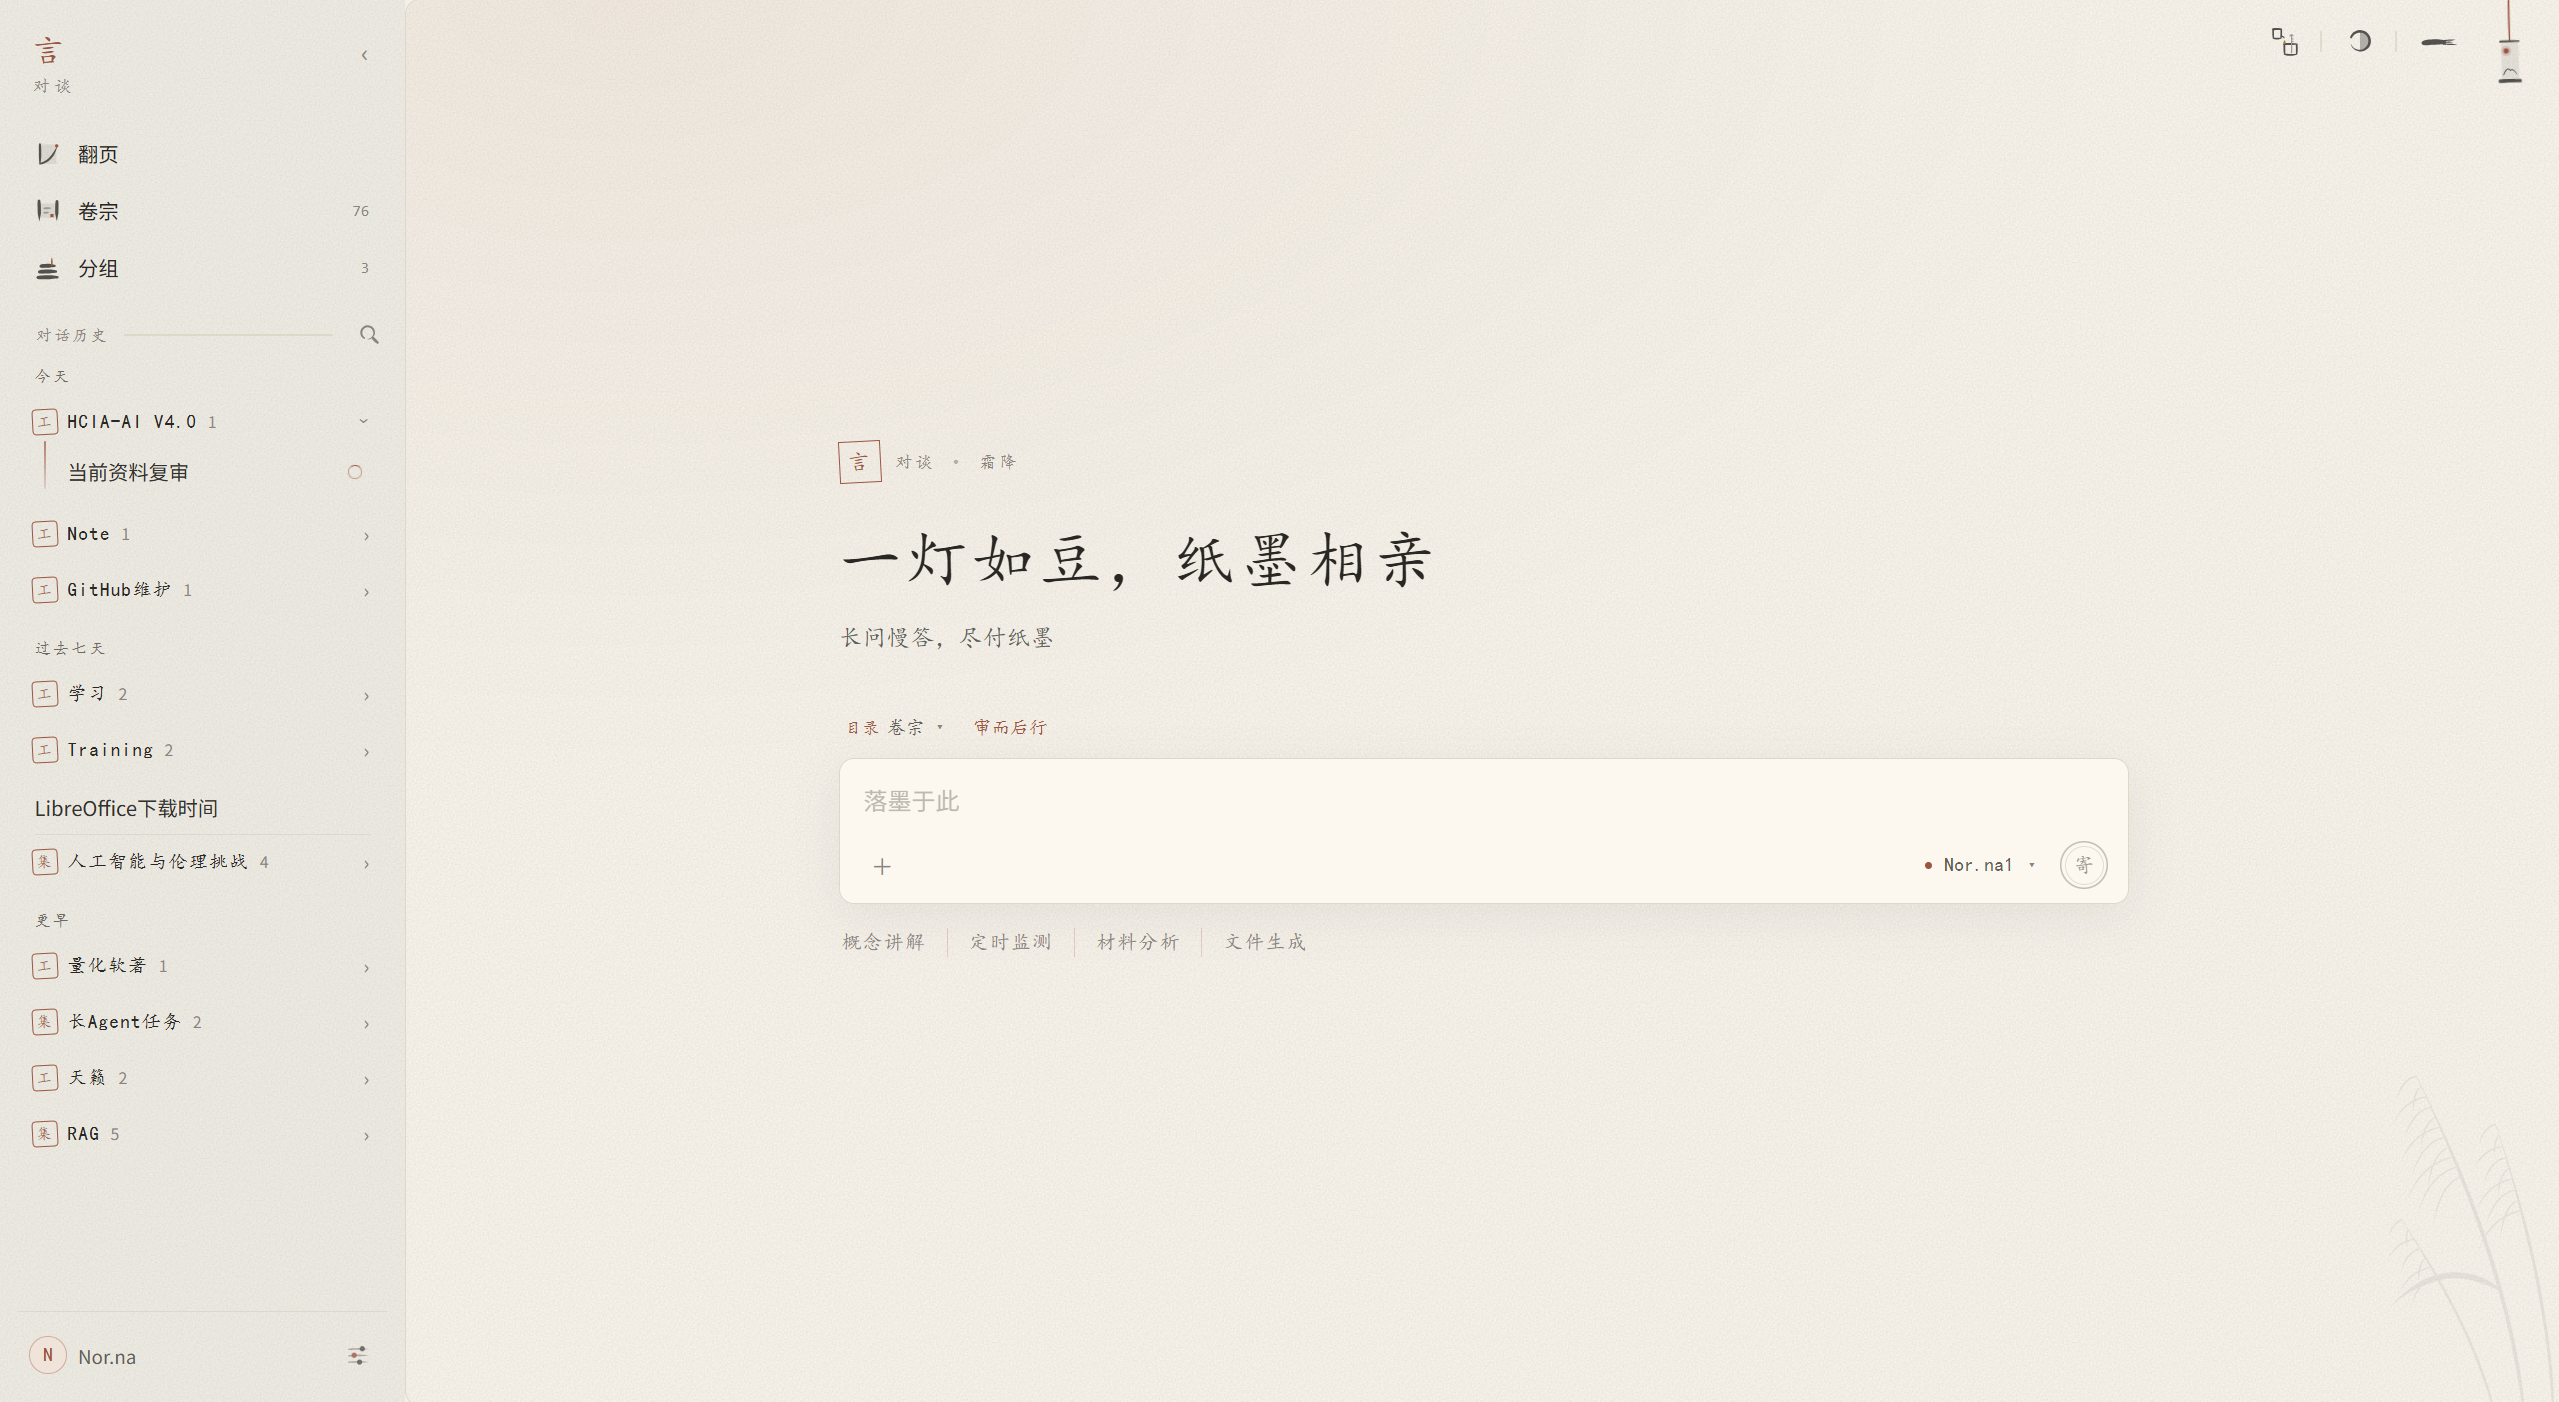
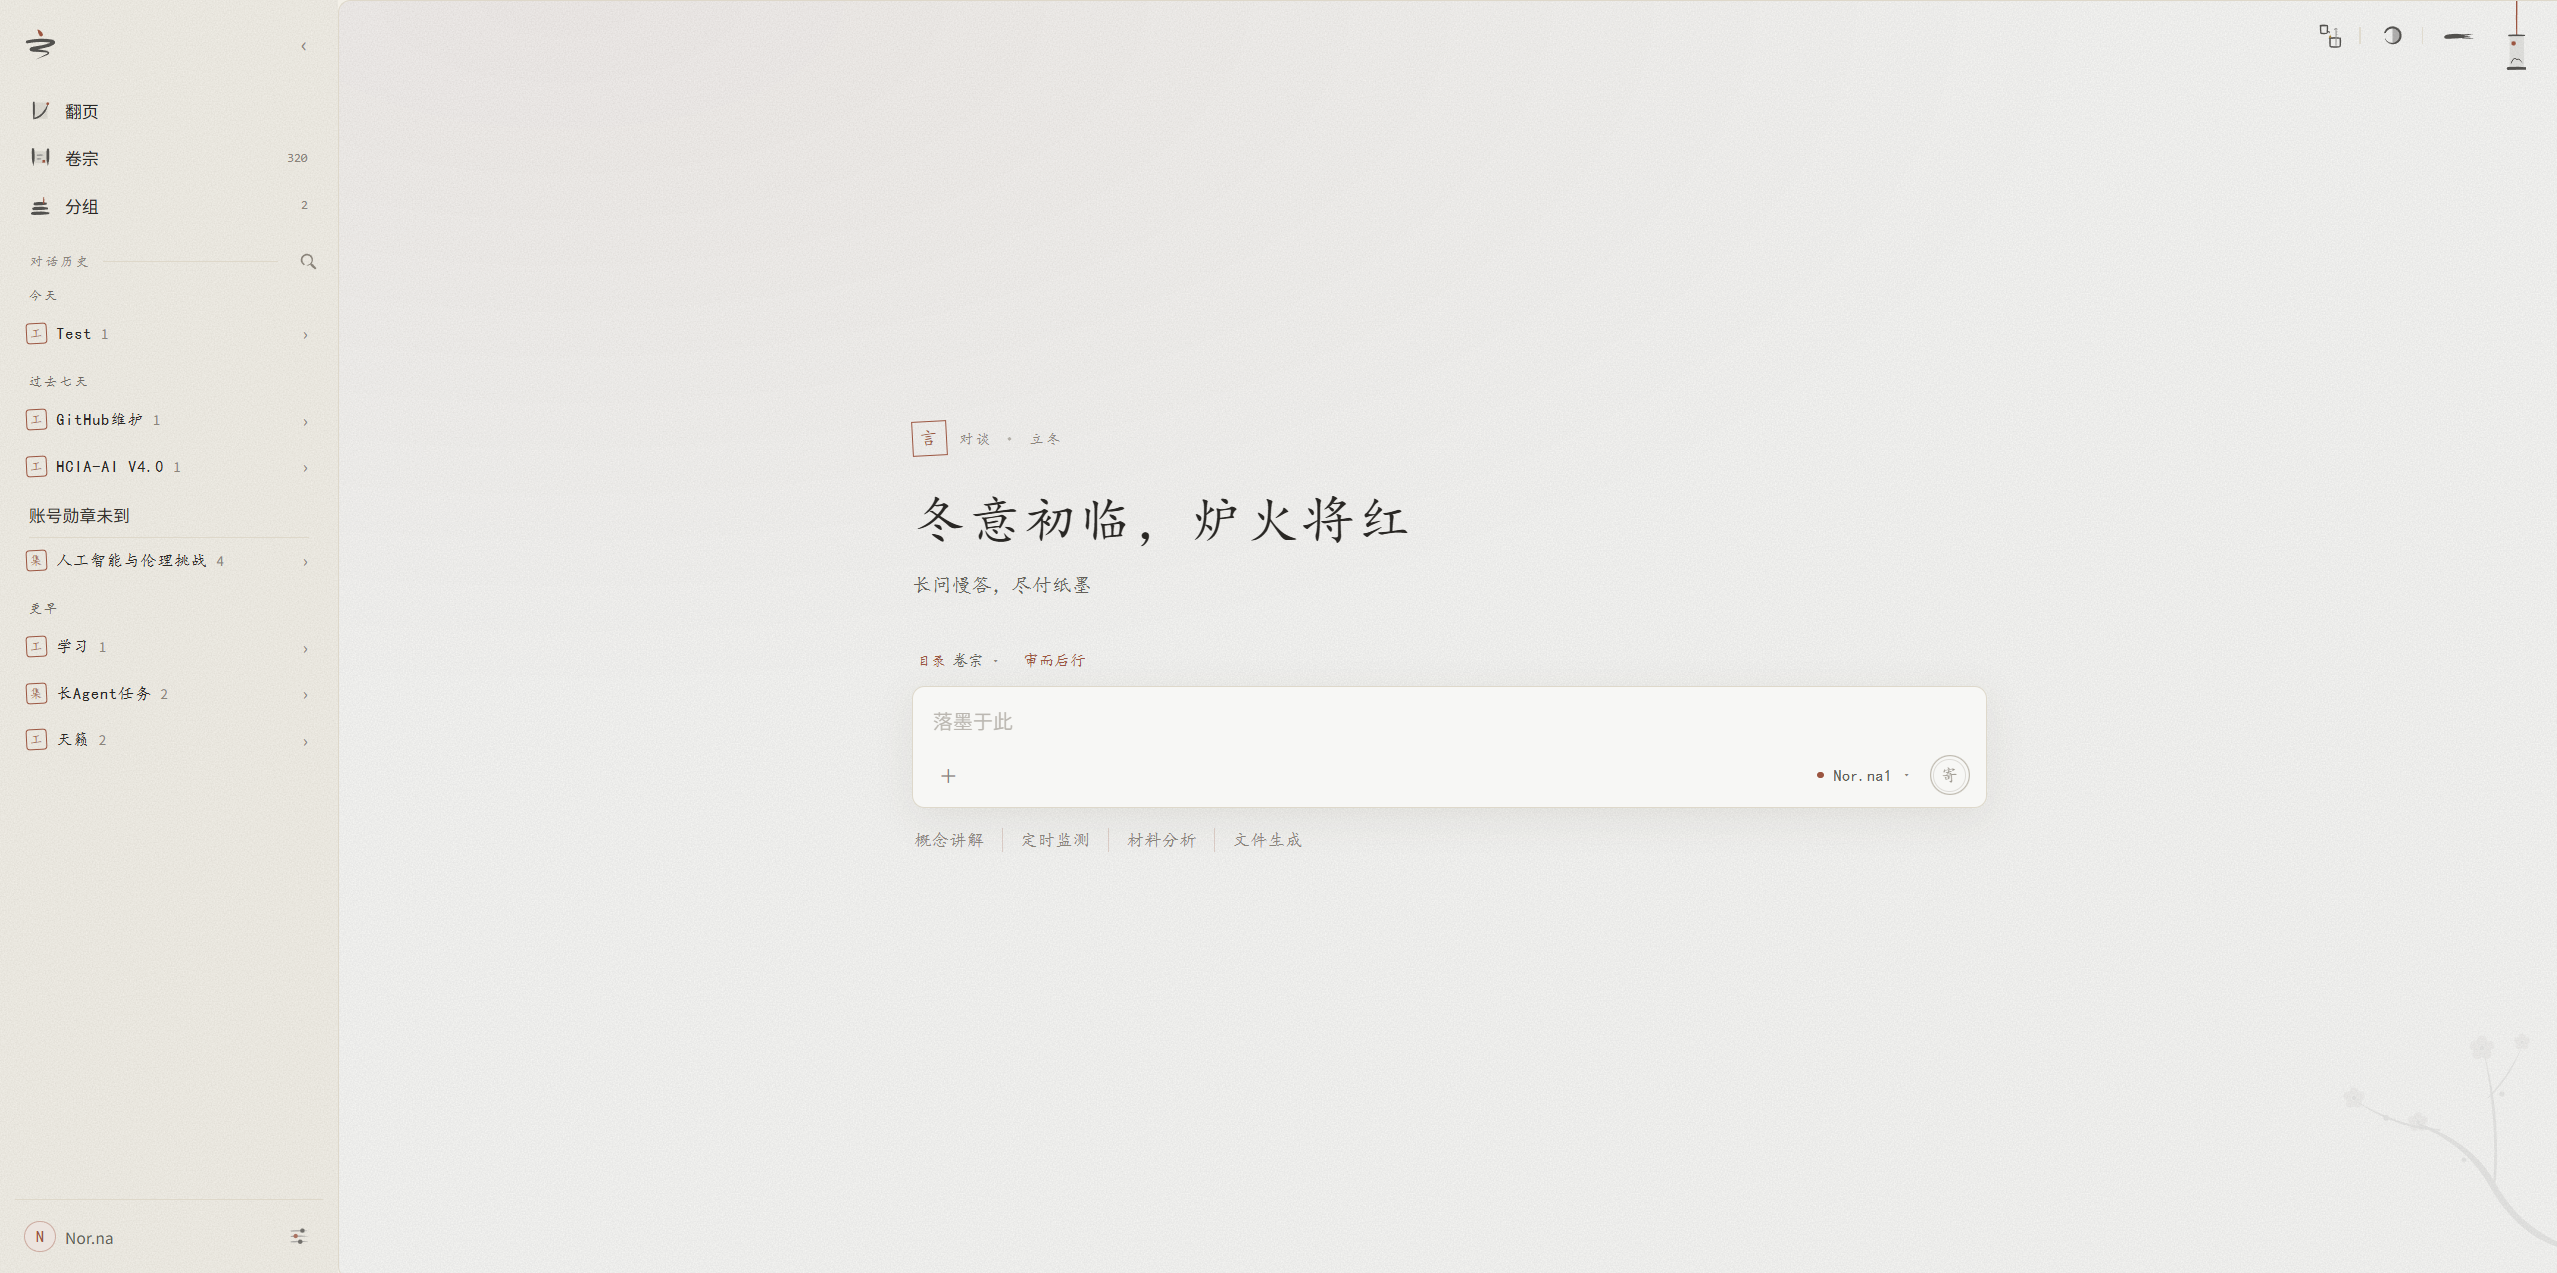
记忆：记多少不设上限，整理不再压字数
三千字的预算是硬数字，同账本当初的两千字一样，只能逼整理删有用的。遗忘只由内容定：被新说法推翻的改掉或删去、相关的并进已有那条，人也可在设置里删；不按时长、不按字数。整理那一问不再报总字数，设置页只显示现有多少字。记忆用例跟上一答落定即整理：人在这段也整理、下一答只交新近的、离开不再整理。

diff --git a/src/11-memory.js b/src/11-memory.js
@@ -1,14 +1,13 @@
-// 言 · 录（记忆）：条目的增删、带进对话、离开一段后的整理与设置页；模型用的工具在 15-tools/40-memory.js
+// 言 · 录（记忆）：条目的增删、带进对话、一答落定后的整理与设置页；模型用的工具在 15-tools/40-memory.js
 // 本文件是 support.js 的一段，由桥接按文件名顺序拼进同一个闭包；无需模块系统
 // ── 录（记忆）──
 // 一条条关于用户的话，跨对话都带着。每条归在一个分类下（言的开发、偏好……），分类不另存，就是各条上的名字：
 // 同名即同类，没有条目的分类自然消失。
 // 照各家的朴素做法（ChatGPT 的存下的记忆、Claude 的 userMemories、Claude Code 的 MEMORY.md）：记忆整份放进系统提示，
 // 每段对话头一问时定格；不再要模型自己去翻——原先只报分类、内容要 recall 才看得到，模型不知道里头有什么，多半就不翻。
-// 能整份带上是因为短：总长有个预算（MEMORY_BUDGET），由专司「记忆」在离开一段对话后整理——从这段的问答里补记、合并、删去推翻的，
-// 压回预算之内。主模型仍可当场 remember，只是不靠它：答题中途停下来记是分心，记不记全看它那一刻想没想起来
-const MEMORY_BUDGET = 3000,
-  MEMORY_UNSORTED = "未分类",
+// 记多少不设上限（同账本：硬数字只会逼它删有用的），由专司「记忆」在每一答落定后整理——从这段的问答里补记、合并、改掉推翻的。
+// 遗忘不按时长、不按字数：被新说法推翻的、用户要忘的才删；人也可在设置里删。主模型仍可当场 remember，只是不靠它：答题中途停下来记是分心，记不记全看它那一刻想没想起来
+const MEMORY_UNSORTED = "未分类",
   // 整理一回交多少字的问答；用户的话、助手的答复各截到多长（助手的只作上下文）
   TIDY_CHUNK = 16000,
   TIDY_USER_CHARS = 4000,
@@ -19,7 +18,7 @@ let memoryCategoryOpen = null;
 let memoryItemOpen = "",
   memoryItemEditing = "";
 /**
- * 专司「记忆」配好了：每段对话开头带上记忆、给记与忘，离开一段后整理。预设没挑「记忆与旧谈」这一组的对话不带也不整理
+ * 专司「记忆」配好了：每段对话开头带上记忆、给记与忘，一答落定后整理。预设没挑「记忆与旧谈」这一组的对话不带也不整理
  * @param {Conversation} [conversation]
  */
 function memoryOn(conversation) {
@@ -203,13 +202,12 @@ async function askTidier(c, turns, day) {
     reply = await askDuty(
       "memory",
       prompt("memory.case", {
-        used: memoryChars(),
         items: items.length ? items.map(item => memoryLine(item, true)).join("\n") : prompt("memory.empty"),
         title: c.title || t("未命名"),
         day,
         turns
       }),
-      { systemPrompt: prompt("memory.system", { budget: MEMORY_BUDGET }), maxTokens: 8000, signal: AbortSignal.timeout(180000) }
+      { systemPrompt: prompt("memory.system"), maxTokens: 8000, signal: AbortSignal.timeout(180000) }
     );
   return parseMemoryOps(reply);
 }
@@ -297,7 +295,7 @@ function memorySettingsHtml() {
     open = categories.find(cat => cat.name === memoryCategoryOpen) || categories[0];
   memoryCategoryOpen = open?.name ?? null;
   return (
-    `<div class="settings-head">${brushIcon("memory", "settings-mark")}<h2>${t(`记忆`)}</h2><span class="settings-meta">${t`${store.memory.items.length} 条 · ${memoryChars()} / ${MEMORY_BUDGET} 字`}${categories.length ? t` · ${categories.length} 类` : ""}</span></div>` +
+    `<div class="settings-head">${brushIcon("memory", "settings-mark")}<h2>${t(`记忆`)}</h2><span class="settings-meta">${t`${store.memory.items.length} 条 · ${memoryChars()} 字`}${categories.length ? t` · ${categories.length} 类` : ""}</span></div>` +
     // 开关在专司里（带不带、谁来整理是一回事）；这一行只说眼下如何，「清空记忆」管的是全部，也放这一行，不挤在哪一类底下
     `<div class="setting-row"><div class="setting-copy"><strong>${on ? t("带进对话") : t("未带进对话")}</strong><small>${
       on ? t("每段对话开头带上，离开一段后由专司「记忆」在后台整理") : t("在专司里配好「记忆」后，才带上、才整理")

diff --git a/i18n/en.js b/i18n/en.js
@@ -406,7 +406,7 @@ var YAN_EN = {
   "分类名；与已有分类同名即并为一类": "Category name; using an existing name merges them",
   手记一条: "Add a memory",
   删去此类: "Delete category",
-  "{0} 条 · {1} / {2} 字": "{0} {0|entry|entries} · {1} / {2} characters",
+  "{0} 条 · {1} 字": "{0} {0|entry|entries} · {1} characters",
   " · {0} 类": " · {0} {0|category|categories}",
   带进对话: "Brought into chats",
   未带进对话: "Not brought into chats",
@@ -1942,8 +1942,8 @@ var YAN_EN = {
   "录是一份跨对话的记忆：你的偏好、身份与约定，此后不必重述。只存于本机。":
     "Memory carries across conversations: your preferences, who you are and what's been agreed, so you needn't repeat them. It's stored only on this machine.",
   带与记: "Bringing and remembering",
-  "专司里配好「记忆」，每段对话开头便带上整份记忆，模型不必去翻。每一答落定，专司「记忆」就在后台读这段新近的问答，补记、合并、删去推翻了的，压在三千字之内；改了几条，提示一句。模型也可当场记一条，行迹里写作「记入」。":
-    "Once Memory is set up under Duties, every chat starts with the whole memory included, so the model doesn't have to look anything up. Whenever an answer settles, the Memory duty reads the chat's recent exchanges in the background, adds what's new, merges and removes what's been overturned, and keeps the whole within 3,000 characters; a short notice says what changed. The model can also save an item on the spot, shown as “Remember” under Steps.",
+  "专司里配好「记忆」，每段对话开头便带上整份记忆，模型不必去翻。每一答落定，专司「记忆」就在后台读这段新近的问答，补记、合并、删去推翻了的；改了几条，提示一句。模型也可当场记一条，行迹里写作「记入」。":
+    "Once Memory is set up under Duties, every chat starts with the whole memory included, so the model doesn't have to look anything up. Whenever an answer settles, the Memory duty reads the chat's recent exchanges in the background, adds what's new, merges and removes what's been overturned; a short notice says what changed. The model can also save an item on the spot, shown as “Remember” under Steps.",
   改与忘: "Editing and forgetting",
   "设置 → 记忆先列各类，点开一类方见其中条目：每条皆可修改、删除、改归别类，长条目平时收起、点开即全文；分类名亦可改，改作已有之名即并为一类。专司里关掉「记忆」，便不带也不记，条目仍在。":
     "Settings → Memory lists the categories first; open one to see its items. Each item can be edited, deleted or moved to another category; long items are collapsed until clicked. Categories can be renamed too, and renaming one to an existing name merges them. Turning Memory off under Duties stops including and recording it; the items stay.",

diff --git a/prompts/memory.js b/prompts/memory.js
@@ -4,16 +4,16 @@
 (window.YAN_PROMPTS ||= {}).memory = {
   body: "你跨对话的记忆，整理自此前的对话：\n{{items}}",
   system: [
-    "你替一位助手整理它对用户的长期记忆。这份记忆会原样放在助手往后每段对话的开头，总长须在 {{budget}} 字以内。",
+    "你替一位助手整理它对用户的长期记忆。这份记忆会原样放在助手往后每段对话的开头。",
     "你会看到现有记忆和一段对话里新近的部分。值得记的：用户是谁；用户希望助手怎么做、别怎么做（尤其是用户纠正过的、明说要记的）；长期的约定与界限；进行中的事和它的状态；反复出现的主题。标准是：一段全新的对话带着它，助手会做得更好。",
     "不记：只关这一回的细节；从文件、账本或旧对话里随时查得到的；助手提了而用户没采纳的；密码、密钥一类。",
-    "一条一事，写成离开这段对话也看得懂的话；说到时间写成绝对日期。与已有条目相关的改那一条，不另起；被新说法推翻的改掉或删去。超出字数时合并，或删去最不要紧的。分类沿用已有的，都不合再起新的，名字简短。",
+    "一条一事，写成离开这段对话也看得懂的话；说到时间写成绝对日期。与已有条目相关的改那一条，不另起；被新说法推翻的改掉或删去。分类沿用已有的，都不合再起新的，名字简短。",
     "只答一个 JSON 数组，每项一处改动：",
     '{"op":"add","category":"…","text":"…"}',
     '{"op":"update","id":"…","text":"…"}（换类时加 "category"）',
     '{"op":"delete","id":"…"}',
     "没有要改的答 []。"
   ],
-  case: "现有记忆（共 {{used}} 字）：\n{{items}}\n\n对话「{{title}}」里新近的部分（{{day}}）：\n{{turns}}",
+  case: "现有记忆：\n{{items}}\n\n对话「{{title}}」里新近的部分（{{day}}）：\n{{turns}}",
   empty: "（还没有）"
 };

diff --git a/src/17-settings/60-guide.js b/src/17-settings/60-guide.js
@@ -496,7 +496,7 @@ const GUIDE = [
       {
         h: t("带与记"),
         body: t(
-          "专司里配好「记忆」，每段对话开头便带上整份记忆，模型不必去翻。每一答落定，专司「记忆」就在后台读这段新近的问答，补记、合并、删去推翻了的，压在三千字之内；改了几条，提示一句。模型也可当场记一条，行迹里写作「记入」。"
+          "专司里配好「记忆」，每段对话开头便带上整份记忆，模型不必去翻。每一答落定，专司「记忆」就在后台读这段新近的问答，补记、合并、删去推翻了的；改了几条，提示一句。模型也可当场记一条，行迹里写作「记入」。"
         )
       },
       {
